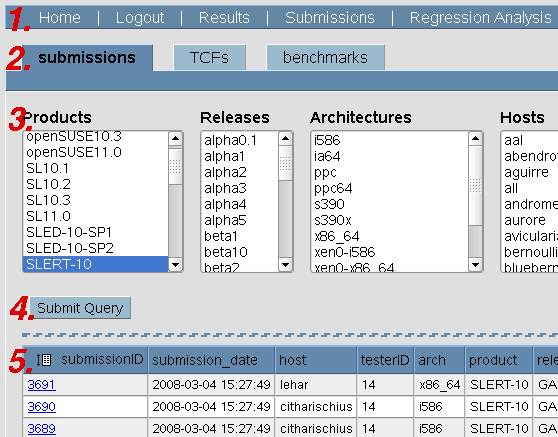
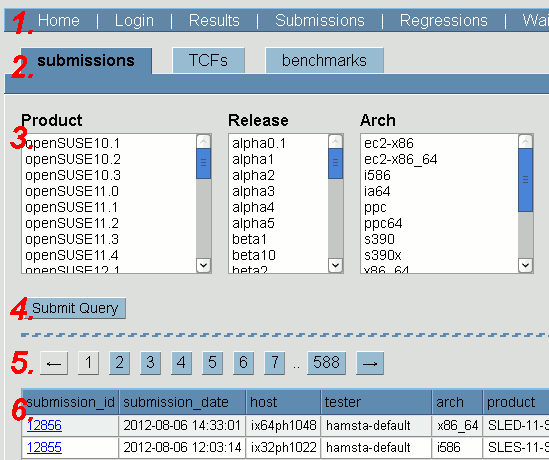
Updated QADB basic usage documentation.

diff --git a/tools/qa_qadb/qa_qadb/frontend/doc/qadb_web_usage/index.html b/tools/qa_qadb/qa_qadb/frontend/doc/qadb_web_usage/index.html
@@ -200,9 +200,10 @@ A page on the frontend usually consists of the following elements:
 	<li><b>Card tabs</b> switch between different parts of the page</li>
 	<li>A <b>search form</b></li>
 	<li>A <b>search submit button</b> that initiates a new search</li>
-	<li>A <b>results table</b> showing the results of the last search.
+	<li>A <b>pager</b> for moving in larger tables</li>
+	<li>A <b>result table</b> showing the results of the last search.
 	<ul>
-		<li>the icon in the upper left corner can shrink large tables to 25 rows <em>(currently only works in Firefox</em></li>
+		<!--li>the icon in the upper left corner can shrink large tables to 25 rows <em>(currently only works in Firefox)</em></li-->
 		<li>black column headers are clickable - click to sort the results by this column</li>
 	</ul></li>
 </ol>
@@ -295,6 +296,10 @@ When you click on the tcfID in the result table, you will see its result list.
 
 <li>
 <b>benchmarks</b> search: searches tests with attached benchmark results (see <a href="#bench_stats">benchmark statistics table</a>). See also <a href="#bench_search">benchmark search</a>.
+</li>
+
+<li>
+<b>extended regressions</b> search: similar to classic <a href="#regressions">regressions</a>, prints summaries of results where there was a problem for different products and releases.
 </li>
 
 </ul>
@@ -432,7 +437,7 @@ When mixing the data into one set, two graphs are obtained:
 </ol>
 
 
-<h3>Regressions</h3>
+<a name="regressions"><h3>Regressions</h3></a>
 <p>
 The regression tool compares two submissions, and looks for improvements and regressions in their test results.
 </p>
